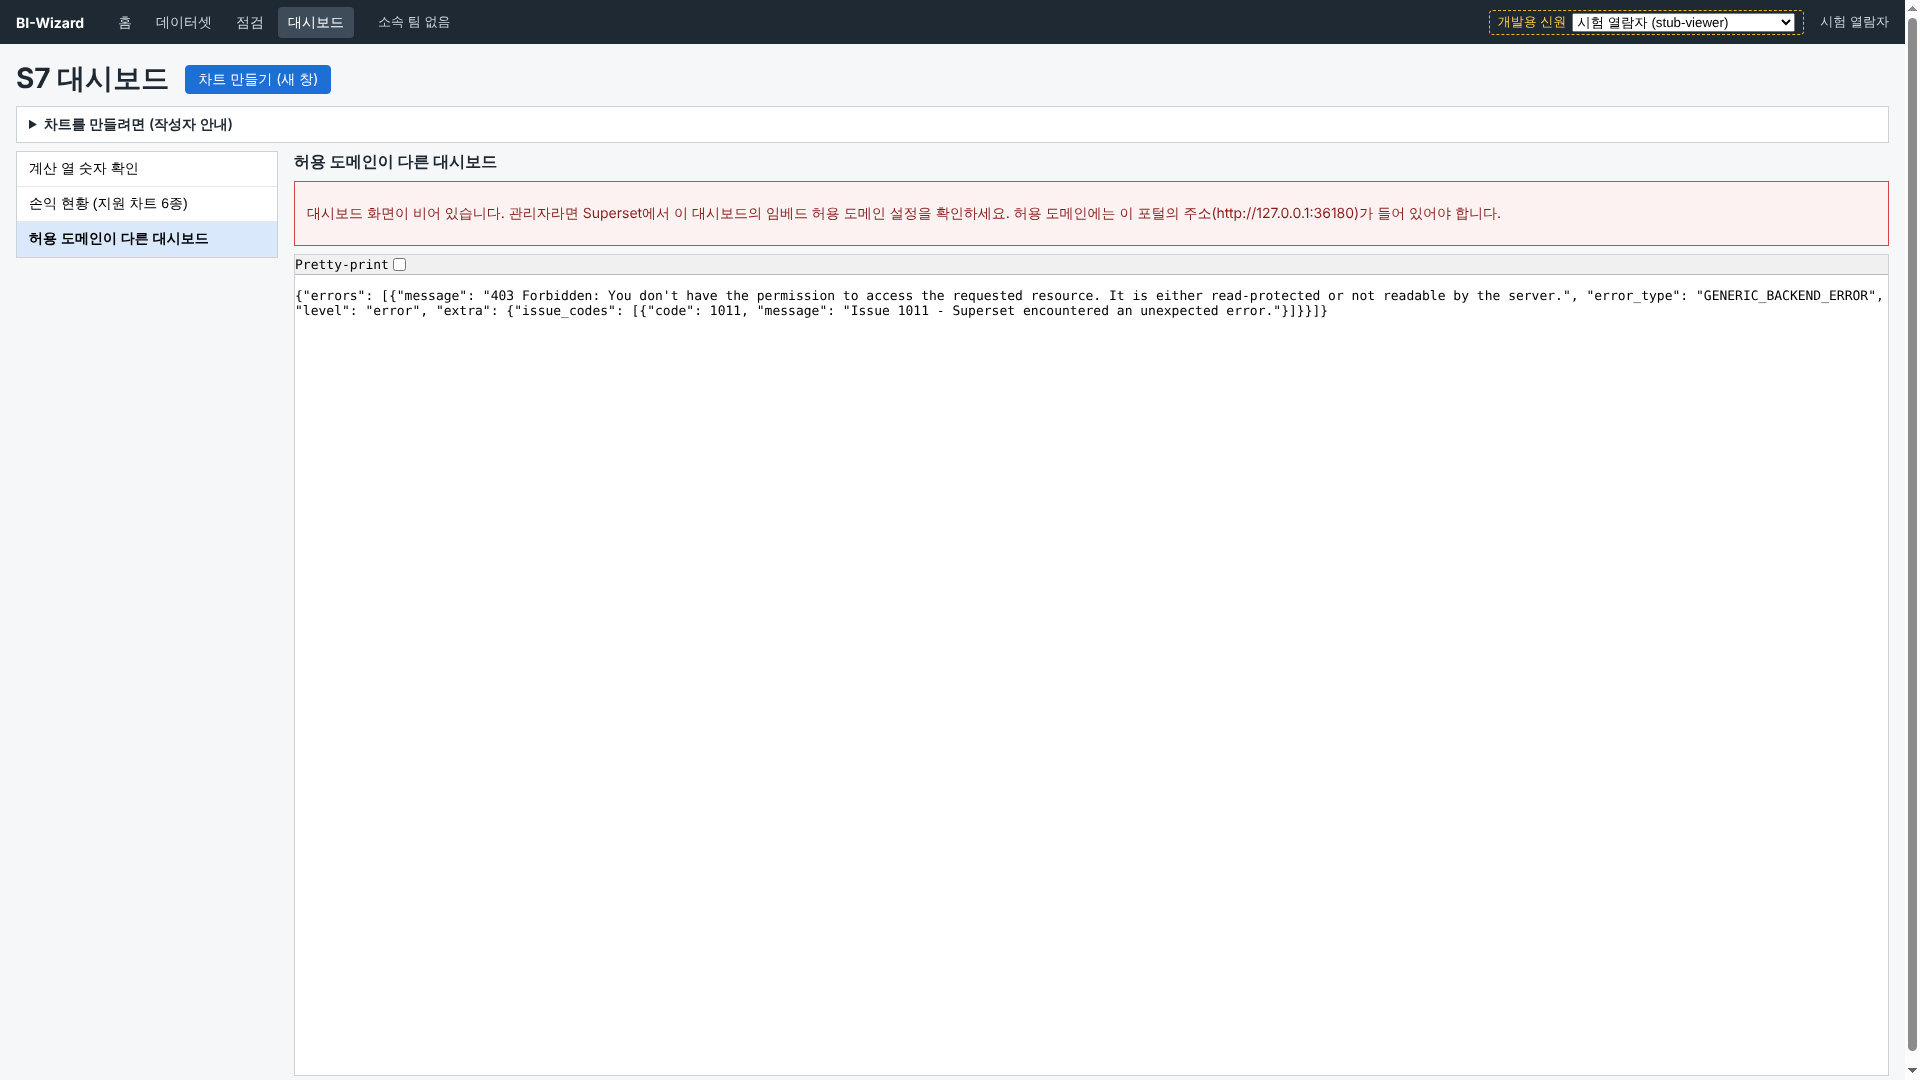
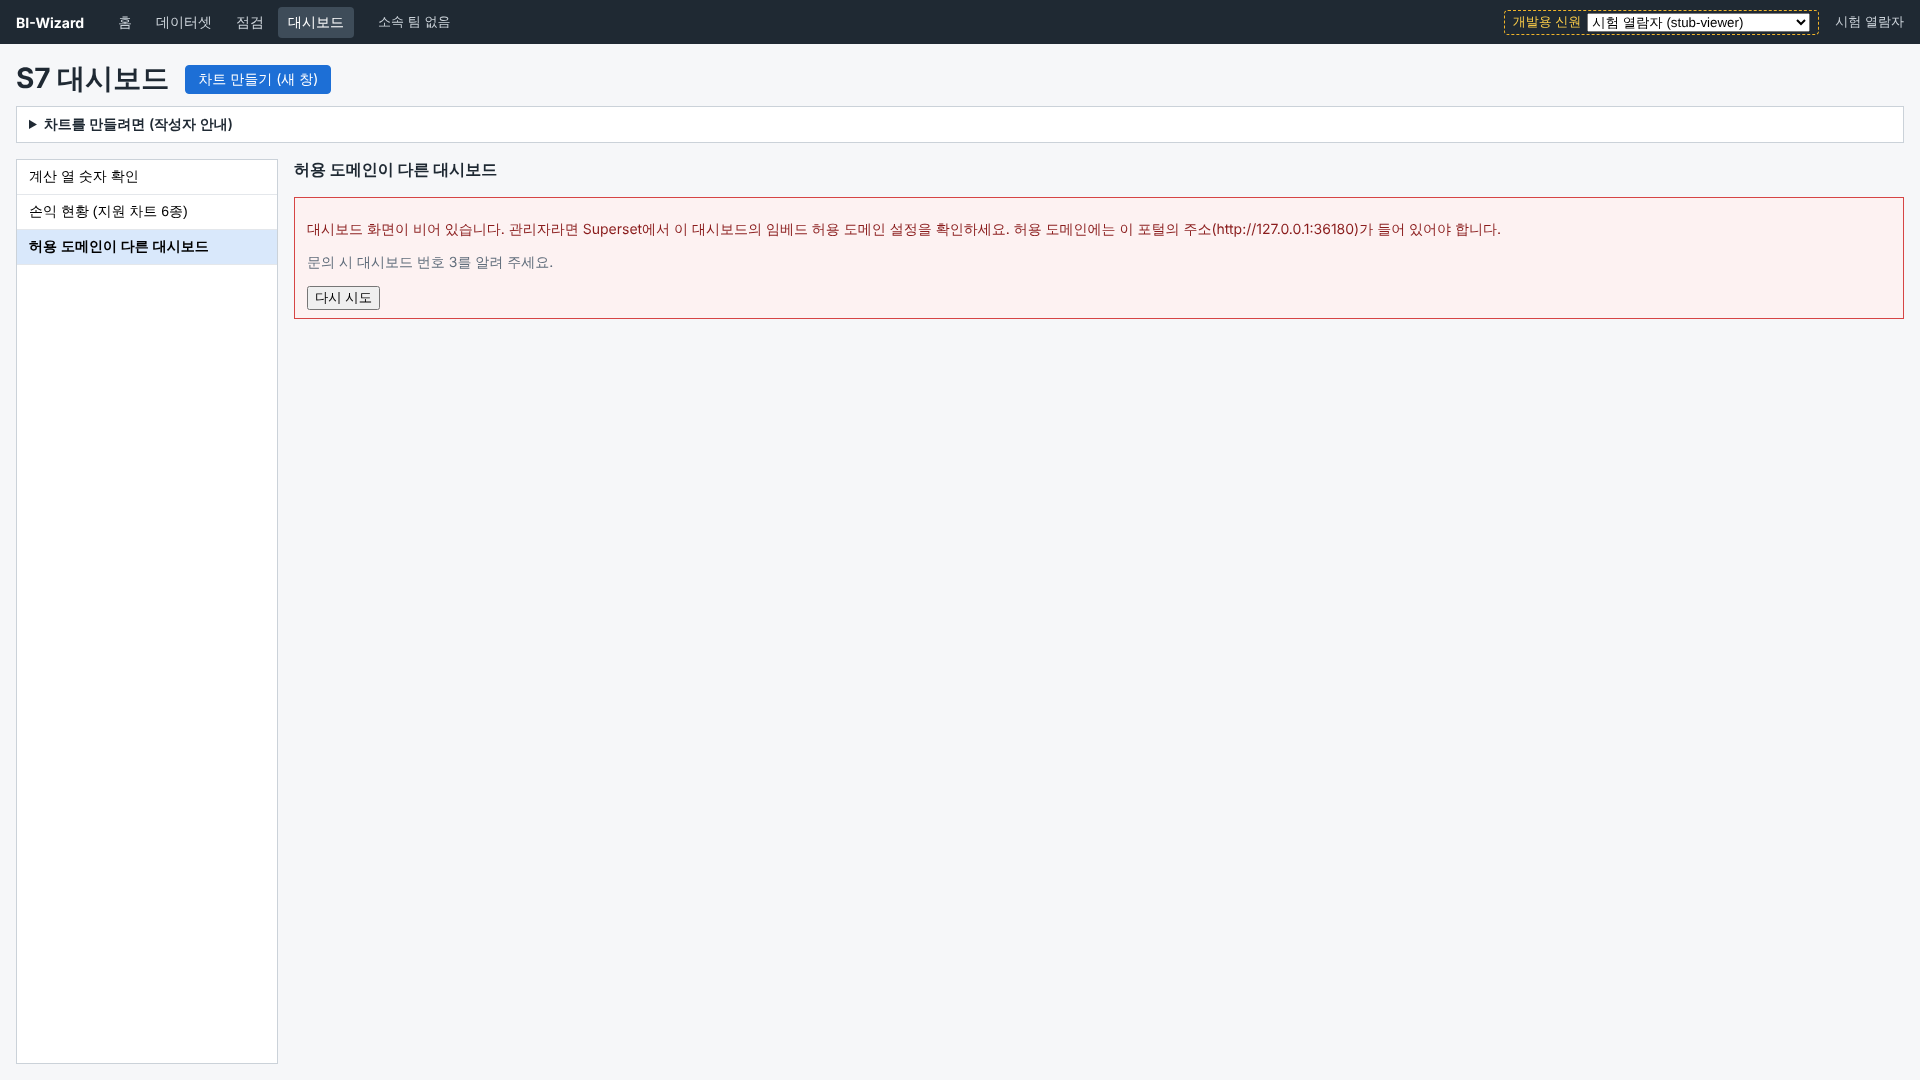
1e-f 스크린샷 31장 교체·502 화면 추가, README·결과 기록
Claude-Session: https://claude.ai/code/session_011eBEnVHtLWqEZa2mjQAAwu

Changed region(s): [[0.0, 0.1222, 0.7812, 0.3056], [0.875, 0.0, 1.0, 0.9778], [0.7812, 0.0, 0.9062, 0.0306]]

diff --git a/docs/screens/fu1/README.md b/docs/screens/fu1/README.md
@@ -122,16 +122,19 @@
 
 촬영 조건 공통: 2026-10-13, HEAD `361c32f`, 1920×1080, `deviceScaleFactor` 1, Chromium(`ignoreDefaultArgs: ['--hide-scrollbars']`, `timezoneId: 'Asia/Seoul'`, locale `ko-KR`). compose 프로젝트 `shot1e`(포털 36180, backend 39180, DB 36480, `APP_BASE_PATH=/bi-wizard`, `APP_PROXY_STRIP_PREFIX=false`, `AUTH_STUB_ENABLED=true`), 임시 env 파일(더미 비밀값, 사용자 `.env` 미사용). 합성 데이터셋 "일별 손익"(365일 × 구분 4종, 계산 열 이익·비용률), "월별 수금" 등. 대시보드는 Superset에서 `seed1e.py`가 만들고 임베드를 켰으며 `bi_guest` 입장권으로 열었다. 입장권·비밀번호는 어느 화면에도 나오지 않는다. 시나리오는 `capture/capture1e.cjs`, 데이터는 `capture/seed1e.py`다.
 
+**1e-f 재촬영(2026-10-13, HEAD `a29cb0b`, compose 프로젝트 `shot1f`, 포털 36180)**: 1e-f에서 바뀐 S7·S8·S9·S2 31장을 같은 파일 이름으로 교체했고 502 안내 화면 1장(`fu1e-s7-dashboard-error-502-embed-disabled.png`)을 새로 추가했다(아래 표에서 "1e-f"로 표시). 코드·설정은 바꾸지 않았다. 3장(`fu1e-s2-dataset-list-sync-registered`, `fu1e-s8-access-denied-non-admin`, `fu1e-s9-access-denied-non-admin`)은 새로 찍었지만 이전 파일과 바이트가 같아 Git 변경으로 잡히지 않는다. `fu1e-superset-계산열숫자.png`(Superset 화면)는 바뀐 화면이 아니라 교체하지 않았다. 데이터 개수가 이전과 조금 다르다(S9 실패 1개, 복구 뒤 6개 등록).
+
 | 파일 | 화면 | 상태 | 촬영 조건 |
 | --- | --- | --- | --- |
 | `fu1e-s7-dashboard-select-prompt.png` | S7 대시보드 | 대시보드를 고르기 전 빈 상태("왼쪽 목록에서 대시보드를 고르세요"), 작성자 안내문은 접힌 상태 | `stub-viewer`, `/dashboards` |
 | `fu1e-s7-dashboard-loading.png` | S7 | 입장권을 받는 중 "대시보드를 불러오는 중…" | 입장권 요청(`/guest-token`) 응답만 브라우저 쪽에서 6초 늦춤(지연 주입, 서버·화면 코드는 그대로) |
-| `fu1e-s7-dashboard-six-charts-viewer.png` | S7 정상 | 목록 3개 + 차트 6종(선·막대·표·큰 숫자 추세·원형·혼합)이 모두 그려진 임베드 첫 화면(둘째 줄은 임베드 안쪽 스크롤 때문에 아래가 잘림) | `stub-viewer`, 대시보드 "손익 현황 (지원 차트 6종)" |
+| `fu1e-s7-dashboard-six-charts-viewer.png` | S7 정상 | 목록 3개 + 차트 6종(선·막대·표·큰 숫자 추세·원형·혼합)이 모두 그려진 임베드 첫 화면(1e-f: 임베드 높이가 화면 아래까지 맞고 세로 스크롤바는 임베드 안쪽 하나뿐이다. 둘째 줄은 임베드 안쪽 스크롤 때문에 아래가 잘림) | `stub-viewer`, 대시보드 "손익 현황 (지원 차트 6종)" |
 | `fu1e-s7-dashboard-six-charts-viewer-scrolled-down.png` | S7 정상 | 같은 대시보드를 임베드 안에서 아래로 스크롤해 둘째 줄(큰 숫자·원형·혼합)이 온전히 보임 | 위 화면에서 마우스 휠 |
-| `fu1e-s7-author-guide-open.png` | S7 작성자 안내문 | 펼친 상태: 지원 차트 6가지, `[팀] 이름` 데이터셋 이름, 시간 필터, `team` 열, Superset 별도 로그인 안내. 위쪽 "차트 만들기 (새 창)" 링크 | `stub-viewer`, 안내문 펼침 |
-| `fu1e-s7-dashboard-blank-allowed-domains.png` | S7 화면이 비어 있음 안내 | 임베드 허용 도메인이 포털 주소와 다른 대시보드("허용 도메인이 다른 대시보드"): 입장권은 받지만 Superset이 403을 돌려줘 15초 뒤 "대시보드 화면이 비어 있습니다…" 안내가 뜬다 | 허용 도메인 `https://other.example`로 임베드를 켠 대시보드 |
+| `fu1e-s7-author-guide-open.png` | S7 작성자 안내문 | 펼친 상태: 지원 차트 6가지, `[팀] 이름` 데이터셋 이름, 시간 필터, `team` 열, Superset 별도 로그인 안내. 위쪽 "차트 만들기 (새 창)" 링크. **1e-f: 숫자 형식 안내 문단 추가**(`y_axis_format`·`number_format`·`column_config`, `,.2f`) | `stub-viewer`, 안내문 펼침 |
+| `fu1e-s7-dashboard-blank-allowed-domains.png` | S7 화면이 비어 있음 안내 | 임베드 허용 도메인이 포털 주소와 다른 대시보드("허용 도메인이 다른 대시보드"): 입장권은 받지만 Superset이 403을 돌려줘 15초 뒤 한국어 안내("대시보드 화면이 비어 있습니다…허용 도메인에는 이 포털의 주소(…)가 들어 있어야 합니다.") + "문의 시 대시보드 번호 N를 알려 주세요." + "다시 시도"가 뜬다. **1e-f: 영어 JSON 403이 보이지 않는다** | 허용 도메인 `https://other.example`로 임베드를 켠 대시보드 |
 | `fu1e-s7-dashboard-error-429-rate-limited.png` | S7 429 안내 | "요청이 너무 많습니다. 약 59초 뒤에 다시 시도해 주세요." + 문의 번호 + "다시 시도" | 같은 사용자(`stub-entry`)가 60초 안에 입장권 API를 33번 호출(30번 200, 3번 429, 실제 한도) 직후 화면을 연다 |
 | `fu1e-s7-dashboard-error-503-superset-down.png` | S7 503 안내 | "대시보드 서비스에 연결할 수 없습니다. 잠시 뒤 다시 시도해 주세요." + 문의 번호 + "다시 시도" | `docker compose stop superset` 상태 |
+| `fu1e-s7-dashboard-error-502-embed-disabled.png` | S7 502 안내 | **1e-f 신규.** 관리자가 Superset에서 임베드를 끈 연결을 열었을 때: "대시보드를 열지 못했습니다. 대시보드 서비스가 요청을 받아들이지 않았습니다. 관리자에게 문의해 주세요." + 문의 번호 + "다시 시도" | 포털 연결은 그대로 두고 Superset API로 `DELETE /dashboard/{id}/embedded`(관리자, 응답 200) 뒤 `stub-viewer`가 그 대시보드를 연다. 입장권 발급이 거부되어 502 |
 | `fu1e-s7-dashboard-none-linked.png` | S7 대시보드 없음 | "연결된 대시보드가 없습니다. 차트를 만든 뒤 관리자에게 대시보드 연결을 요청하세요." | 관리자가 대시보드 3개를 모두 연결 해제(촬영 뒤 다시 연결) |
 | `fu1e-s8-connections-list-admin.png` | S8 연결 관리 | 관리자: 연결 방법 안내, 새 연결 폼(등록 버튼 비활성), 연결된 대시보드 3개 | `stub-admin`, `/admin/dashboards` |
 | `fu1e-s8-form-error-uuid-format.png` | S8 폼 오류 | 번호 형식 오류("임베드 번호는 하이픈이 있는 36자…여야 합니다"), 등록 버튼 비활성 | 번호에 `1234-not-a-uuid` 입력 |
@@ -143,12 +146,12 @@
 | `fu1e-s8-connections-list-reactivated.png` | S8 활성 전환 | "다시 연결" 뒤 "연결됨"으로 돌아옴 | 행의 "다시 연결" |
 | `fu1e-s8-access-denied-non-admin.png` | S8 접근 거부 | "관리자만 사용할 수 있는 화면입니다." | `stub-entry`가 `/admin/dashboards` 직접 접속 |
 | `fu1e-s9-sync-all-registered.png` | S9 동기 구역 registered | 전체 2개 모두 "등록됨", 마지막 등록 시각, "대기·실패 전부 다시 동기" 비활성 | `stub-admin`, `/admin/status` |
-| `fu1e-s9-sync-failed-with-error-code-admin.png` | S9 failed(관리자) | "등록 실패" 2개, 실패 사유 `UNAVAILABLE_CONNECT: 대시보드 서비스에 연결하지 못했습니다.`(코드는 관리자에게만), 행마다 "다시 동기" | `docker compose stop superset` 중 데이터셋 생성 |
+| `fu1e-s9-sync-failed-with-error-code-admin.png` | S9 failed(관리자) | "등록 실패" 1개(1e-f 재촬영 기준, 이전 2개), 실패 사유 `UNAVAILABLE_CONNECT: 대시보드 서비스에 연결하지 못했습니다.`(코드는 관리자에게만), 행마다 "다시 동기" | `docker compose stop superset` 중 데이터셋 생성 |
 | `fu1e-s9-sync-filter-failed-admin.png` | S9 failed 필터 | 상태 필터 "등록 실패"로 거른 목록 | 필터 선택 |
 | `fu1e-s9-sync-retry-accepted.png` | S9 다시 시도 | "2개를 다시 등록하도록 접수했습니다…" 안내(Superset이 멈춰 있어 결과는 여전히 실패) | "대기·실패 전부 다시 동기" 클릭 |
 | `fu1e-s9-sync-pending-admin.png` | S9 pending | "등록 대기" 3개와 "다시 동기" 버튼, 사유 칸은 비어 있음 | Superset 컨테이너를 `docker compose pause`한 채 데이터셋 3개 생성(응답이 없어 처리 중) |
 | `fu1e-s9-sync-filter-pending-admin.png` | S9 pending 필터 | 상태 필터 "등록 대기"로 거른 목록 | 필터 선택 |
-| `fu1e-s9-sync-recovered-all-registered.png` | S9 복구 | Superset을 되살린 뒤 7개 모두 "등록됨" | `unpause` 후 약 10초 |
+| `fu1e-s9-sync-recovered-all-registered.png` | S9 복구 | Superset을 되살린 뒤 6개(1e-f 재촬영 기준, 이전 7개) 모두 "등록됨" | `unpause` 후 약 10초 |
 | `fu1e-s9-access-denied-non-admin.png` | S9 접근 거부 | 정의 담당자가 `/admin/status` 접속: "관리자만 사용할 수 있는 화면입니다." | `stub-definer` |
 | `fu1e-s2-dataset-list-sync-registered.png` | S2 동기 상태 열 registered | "등록됨" 배지 | `stub-definer`, `/datasets` |
 | `fu1e-s2-dataset-list-sync-failed-definer.png` | S2 failed(정의 담당자) | "등록 실패" 배지(사유 코드는 보이지 않음) | `stub-definer`, Superset 정지 상태 |
@@ -161,7 +164,8 @@
 1e에서 찍지 못한 것(사유):
 - 한 화면에 registered·pending·failed 배지가 함께 나오는 S2: 실패는 Superset 정지(연결 거부)에서, 대기는 Superset 일시 정지에서만 만들어져 같은 시점에 둘을 겹쳐 만들지 못했다. 상태별로 따로 찍었다(S9에는 registered와 pending, registered와 failed가 함께 나온 화면이 있다).
 - S8 등록 성공 화면("'이름' 대시보드를 연결했습니다"): 새 임베드 번호를 만들려면 Superset 대시보드를 하나 더 만들어 S7 목록에 남게 되어 생략했다. 단위 시험(`dashboards.test.tsx`)이 문구를 검증한다.
-- 5분 넘는 열람의 입장권 갱신 실패 배너, 허용 도메인 안내가 아닌 502(`SUPERSET_REJECTED`) 안내: 재현에 Superset 설정을 바꾸거나 5분 이상 기다려야 해 제외했다.
+- 5분 넘는 열람의 입장권 갱신 실패 배너: 5분 이상 기다려야 해 제외했다. (허용 도메인 안내가 아닌 502 안내는 1e-f에서 임베드 해제로 재현해 촬영했다.)
+- 1e-f에서도 못 찍은 것: 위 S2 세 상태 혼합 화면, S8 등록 성공 화면, 입장권 갱신 실패 배너(사유 같음). 502 안내는 임베드를 껐을 때의 문구가 일반 502 문구와 같아 "임베드가 꺼졌다"는 원인은 화면에 나오지 않는다.
 
 
 (1a~1d) 촬영하지 못한 화면은 없다(요청한 항목 모두 촬영). 열 목록·붙여넣기 결과 등에서 가로 스크롤바가 보이는 화면은 `fu1c-s4-entry-grid-wide-*`(열 16개)이며, 열이 6개인 "월별 매출"은 세로 스크롤바가 생기는 화면에서만 아래쪽에 가로 스크롤바가 함께 나타난다. 단 "개발용 신원 전환기가 보이는 상태"는 모든 화면 위쪽에 항상 나타나므로 전환기를 펼친 화면을 별도 파일로 두었다.
@@ -190,9 +194,9 @@
 ### 1e 재촬영 방법
 
 1. 더미 값만 든 임시 env 파일을 저장소 밖 또는 Git이 무시하는 위치(`_workspace/qa/`)에 만든다(`AUTH_STUB_ENABLED=true`, `APP_ENV=local`, `APP_BASE_PATH=/bi-wizard`, `APP_PROXY_STRIP_PREFIX=false`, 비밀 변수 10개는 새로 만든 무작위 값, 포트는 65535 이하). 새 DB(전용 프로젝트명 `shot1e`)로 `docker compose -p shot1e --env-file <임시 env> up -d`. 이미지는 먼저 `build backend frontend`(이 세션은 CA 묶음을 넣는 보조 Dockerfile을 `-f` override로 썼다). `${SUPERSET_APP_ROOT}/health`가 200이 될 때까지 기다린 뒤 `exec -T backend python -m app.cli seed-stub-users`.
-2. 합성 데이터: `python3 capture/seed1e.py portal http://127.0.0.1:<FRONTEND_PORT>/bi-wizard/api <ids1e.json>` 다음, Superset 관리자 값을 환경변수로만 넘겨 `SUPERSET_ADMIN_USER=… SUPERSET_ADMIN_PASSWORD=… python3 capture/seed1e.py superset <API 주소> http://127.0.0.1:<FRONTEND_PORT>/bi-wizard/superset <ids1e.json> http://127.0.0.1:<FRONTEND_PORT>`(임시 env를 `set -a; . <임시 env>; set +a`로 읽어 넘긴다. 값을 파일·명령줄에 쓰지 않는다). 포털이 가상 데이터셋을 등록하는 동안(최대 약 1분) 스크립트가 기다린다.
+2. (1e-f부터 같은 방법에 프로젝트명만 `shot1f`로 바꿨고, 임시 env는 `_workspace/qa/shot1f-env`.) 합성 데이터: `python3 capture/seed1e.py portal http://127.0.0.1:<FRONTEND_PORT>/bi-wizard/api <ids1e.json>` 다음, Superset 관리자 값을 환경변수로만 넘겨 `SUPERSET_ADMIN_USER=… SUPERSET_ADMIN_PASSWORD=… python3 capture/seed1e.py superset <API 주소> http://127.0.0.1:<FRONTEND_PORT>/bi-wizard/superset <ids1e.json> http://127.0.0.1:<FRONTEND_PORT>`(임시 env를 `set -a; . <임시 env>; set +a`로 읽어 넘긴다. 값을 파일·명령줄에 쓰지 않는다). 포털이 가상 데이터셋을 등록하는 동안(최대 약 1분) 스크립트가 기다린다.
 3. 촬영(`PLAYWRIGHT_MODULE`·`CHROMIUM_PATH` 지정, `node capture/capture1e.cjs --origin http://127.0.0.1:<FRONTEND_PORT> --base /bi-wizard --ids <ids1e.json> --out . --env <임시 env> --only …`)은 단계로 나눈다.
-   - ① 정상 단계: `s7-select,s7-loading,s7-six,s7-guide,s7-blank,s8,s8-toggle,s8-denied,sync-registered,s7-nodash,s7-429,superset-calc`(`superset-calc`만 `SUPERSET_ADMIN_USER`·`SUPERSET_ADMIN_PASSWORD` 환경변수 필요. `s7-429`는 해당 사용자의 60초 한도를 쓰므로 마지막에 둔다)
+   - ① 정상 단계: `s7-select,s7-loading,s7-six,s7-guide,s7-blank,s8,s8-toggle,s8-denied,sync-registered,s7-nodash,s7-429,superset-calc`(`superset-calc`만 `SUPERSET_ADMIN_USER`·`SUPERSET_ADMIN_PASSWORD` 환경변수 필요. `s7-429`는 해당 사용자의 60초 한도를 쓰므로 마지막에 둔다. 1e-f 추가 단계 `s7-502`는 허용 도메인 다른 대시보드의 임베드를 Superset API로 끄므로 `s7-blank` 뒤에 두고 `SUPERSET_ADMIN_USER`·`SUPERSET_ADMIN_PASSWORD` 환경변수가 필요하다)
    - ② `docker compose -p shot1e … stop superset` → `python3 capture/seed1e.py extra <API 주소> "지점별 재고"`(8초쯤 기다리면 `failed`) → `s7-503`, 이어서 `sync-failed,sync-retry`
    - ③ `docker compose … start superset`로 되살린 뒤 `docker compose … pause superset` → `seed1e.py extra`로 데이터셋 3개 → **곧바로** `sync-pending`(처리 중 대기는 잠시만 유지된다) → `docker compose … unpause superset` → 약 10초 뒤 `sync-recovered`
 4. 정리: `docker compose -p shot1e --env-file <임시 env> stop`, 컨테이너는 `rm -f`(서비스 이름 지정), 볼륨은 이름을 지정해 삭제한다(`down -v` 금지).
